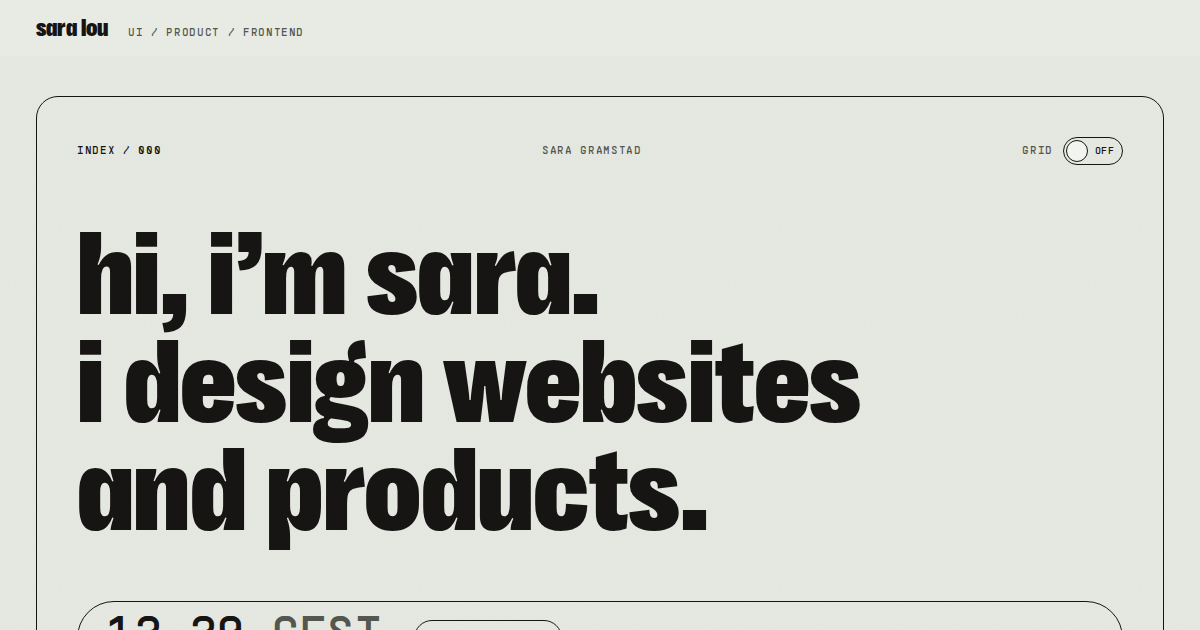
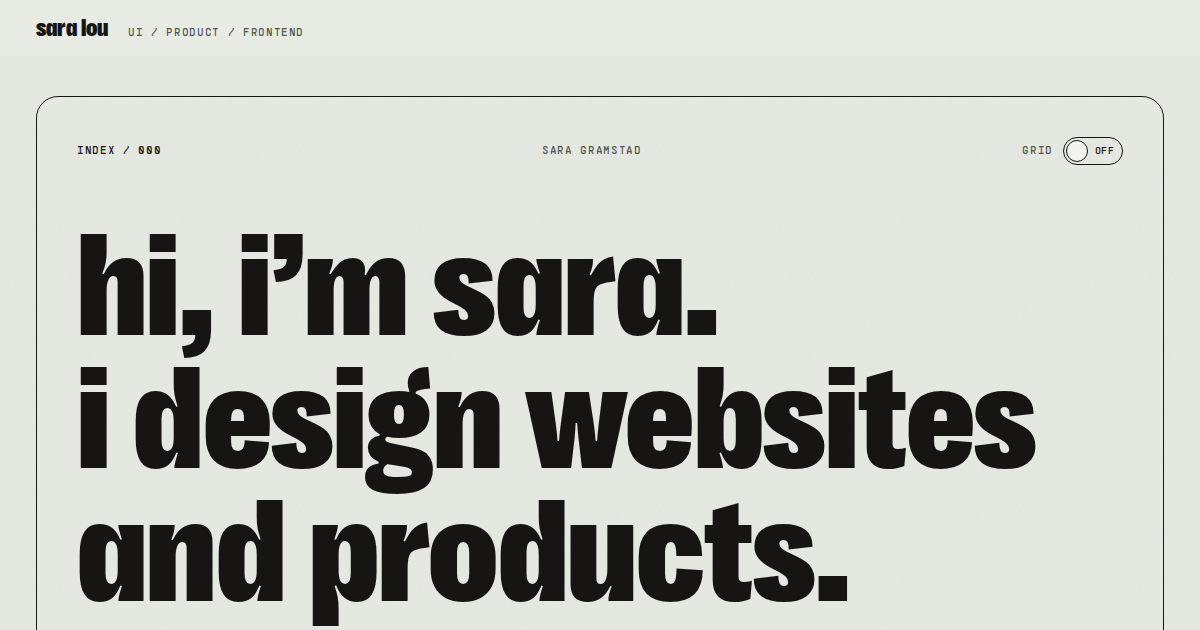
Make both big heading sizes bigger, phone and desktop
xl and lg now come from runtime --fs-display-* vars in two fluid ranges.
Phones: xl 44-62px (was 42-44), lg 36-45px (was 30-34); the hero's
"i design websites" breaks onto two lines there. From 768px: xl up to
168px, lg up to 112px. DESIGN.md size table updated.

Claude-Session: https://claude.ai/code/session_011K1qsvehvz2pY9Y4J7gqbK

Changed region(s): [[0.0617, 0.3619, 0.8633, 1.0]]

diff --git a/src/styles/globals.css b/src/styles/globals.css
@@ -24,6 +24,12 @@
   --accent-soft: #e3ecc4; /* a quiet tint */
   --live: var(--accent); /* the status dot is the brand dot */
 
+  /* Big type: fluid (clamp: minimum, grows with the screen, maximum), in two ranges.
+     Phones: the hero's "i design websites" may break onto two lines, so xl is sized by
+     "and products." (the widest line that must not break). From 768px: three hero lines. */
+  --fs-display-xl: clamp(2.75rem, 17vw - 0.7rem, 5rem);
+  --fs-display-lg: clamp(2.25rem, 10vw + 0.1rem, 3.5rem);
+
   /* Font stacks: licensed Pangram fonts first (fonts.css), the free fonts as fallback when they're absent */
   --ff-display: 'PP Right Grotesk Compact', 'Familjen Grotesk', 'Helvetica Neue', Arial, ui-sans-serif, sans-serif;
   --ff-title: 'PP Mori', 'Familjen Grotesk', 'Helvetica Neue', Arial, ui-sans-serif, sans-serif;
@@ -77,6 +83,13 @@
   --input: var(--rule-strong);
   --ring: var(--accent-ink);
   --radius: 0.5rem;
+}
+
+@media (width >= 48rem) {
+  :root {
+    --fs-display-xl: clamp(5.5rem, 13.3vw - 0.75rem, 10.5rem);
+    --fs-display-lg: clamp(3.5rem, 8.5vw - 0.5rem, 7rem);
+  }
 }
 
 /* Dark mode: the paper and the lines flip; the pastels and the acid LED stay exactly the same.
@@ -164,12 +177,10 @@
 
   /* Type scale → text-display-xl, text-lead, text-meta … */
   /* Display sizes are set for bold uppercase grotesk (use with .type-display) */
-  /* Fluid sizes: clamp(phone minimum, scales with viewport width, desktop maximum). xl is sized so the hero's
-     widest line ('i design websites') still fits a 320px phone. */
-  --text-display-xl: clamp(2.75rem, 0.6rem + 9.2vw, 8.5rem);
+  --text-display-xl: var(--fs-display-xl);
   --text-display-xl--line-height: 0.9;
   --text-display-xl--letter-spacing: -0.005em;
-  --text-display-lg: clamp(1.9rem, 0.8rem + 4.9vw, 5.75rem);
+  --text-display-lg: var(--fs-display-lg);
   --text-display-lg--line-height: 0.92;
   --text-display-lg--letter-spacing: 0em;
   --text-display-md: clamp(1.5rem, 1rem + 2vw, 2.9rem);

diff --git a/DESIGN.md b/DESIGN.md
@@ -88,16 +88,16 @@ Three Pangram Pangram families, chosen 2026-10-06 (combo C). Licensed for web us
 | Label / bracket | PP Supply Mono, caps | `type-label` | 11px, tracking 0.06em |
 | Button | PP Supply Mono Medium, caps | `Button` | tracking 0.04em |
 
-**Sizes are fluid** (`clamp()` in `globals.css`): each grows with the screen between a phone minimum and a desktop maximum.
+**Sizes are fluid** (`clamp()`): each grows with the screen between a minimum and a maximum, in two ranges (phones, and 768 px up). Set in `--fs-display-*` at the top of `globals.css`.
 
-| Token | 320–375 px | 390 px | 768 px | 1024 px | 1440 px+ |
-| --- | --- | --- | --- | --- | --- |
-| `display-xl` | 44 | 45 | 80 | 104 | 136 |
-| `display-lg` | 30–31 | 32 | 50 | 63 | 83 |
-| `display-md` | 24 | 24 | 31 | 36 | 45 |
-| `display-sm` | 20 | 20 | 23 | 25 | 28 |
+| Token | 320 px | 390 px | 430 px | 768 px | 1024 px | 1440 px+ |
+| --- | --- | --- | --- | --- | --- | --- |
+| `display-xl` | 44 | 55 | 62 | 90 | 124 | 168 |
+| `display-lg` | 36 | 41 | 45 | 57 | 79 | 112 |
+| `display-md` | 24 | 24 | 25 | 31 | 36 | 45 |
+| `display-sm` | 20 | 20 | 20 | 23 | 25 | 28 |
 
-xl's phone size is capped by the hero: "i design websites" must fit on one line on a 320 px phone. Each step is about 1.3–1.6× the next, so the levels read as clearly different.
+On phones the hero's "i design websites" breaks onto two lines (from 768 px it's one); xl is sized so "and products." never breaks. Both xl and lg are meant to be big; md and sm are the working sizes.
 
 **Files used (and the only ones published):** `PPRightGrotesk-CompactBlack`, `PPMori-Regular`, `PPMori-Italic`, `PPMori-Semibold`, `PPSupplyMono-Regular`, `PPSupplyMono-Medium` (`.woff2`).
 
